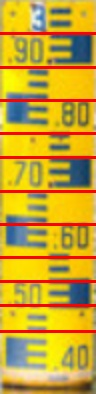
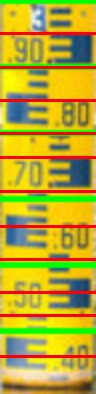
optimization 1st

diff --git a/utils.py b/utils.py
@@ -86,10 +86,14 @@ def sobel_edge_detector(img):
 
 def trialK(staff, staff_height, vrt, weight):
 	first_h = []
+	start = int(staff_height*((weight-1)*0.01))
+	stop = int(staff_height*(weight*0.01))
+	if start == stop:
+		stop += 1
 	for j in range(8):
 		if j==0:
 			prob = []; draws = []; height = []; vertical = []
-			for k in range(int(staff_height*(weight*0.01))):
+			for k in range(start,stop):
 				genE(int(staff.shape[1]/2), int(staff_height)-k)
 				temp = cv2.threshold(cv2.imread("template.jpg", 0), 128, 255, cv2.THRESH_OTSU)[1]
 				section = cv2.cvtColor(staff[vrt:vrt+int(staff_height), :int(staff.shape[1]/2)], cv2.COLOR_BGR2GRAY)
@@ -102,7 +106,7 @@ def trialK(staff, staff_height, vrt, weight):
 			else: pass
 		elif j==1:
 			prob = []; draws = []; height = []; vertical = []
-			for k in range(int(staff_height*(weight*0.01))):
+			for k in range(start,stop):
 				genE(int(staff.shape[1]/2), int(staff_height)-k)
 				temp = cv2.threshold(cv2.imread("template.jpg", 0), 128, 255, cv2.THRESH_OTSU)[1]
 				temp = cv2.bitwise_not(temp)
@@ -116,7 +120,7 @@ def trialK(staff, staff_height, vrt, weight):
 			else: pass
 		elif j==2:
 			prob = []; draws = []; height = []; vertical = []
-			for k in range(int(staff_height*(weight*0.01))):
+			for k in range(start,stop):
 				genEback(int(staff.shape[1]/2), int(staff_height)-k)
 				temp = cv2.threshold(cv2.imread("template.jpg", 0), 128, 255, cv2.THRESH_OTSU)[1]
 				section = cv2.cvtColor(staff[vrt:vrt+int(staff_height), :int(staff.shape[1]/2)], cv2.COLOR_BGR2GRAY)
@@ -129,7 +133,7 @@ def trialK(staff, staff_height, vrt, weight):
 			else: pass
 		elif j==3:
 			prob = []; draws = []; height = []; vertical = []
-			for k in range(int(staff_height*(weight*0.01))):
+			for k in range(start,stop):
 				genEback(int(staff.shape[1]/2), int(staff_height)-k)
 				temp = cv2.threshold(cv2.imread("template.jpg", 0), 128, 255, cv2.THRESH_OTSU)[1]
 				temp = cv2.bitwise_not(temp)
@@ -143,7 +147,7 @@ def trialK(staff, staff_height, vrt, weight):
 			else: pass
 		elif j==4:
 			prob = []; draws = []; height = []; vertical = []
-			for k in range(int(staff_height*(weight*0.01))):
+			for k in range(start,stop):
 				genE(int(staff.shape[1]/2), int(staff_height)+k)
 				temp = cv2.threshold(cv2.imread("template.jpg", 0), 128, 255, cv2.THRESH_OTSU)[1]
 				section = cv2.cvtColor(staff[vrt:vrt+2*int(staff_height), int(staff.shape[1]/2):], cv2.COLOR_BGR2GRAY)
@@ -156,7 +160,7 @@ def trialK(staff, staff_height, vrt, weight):
 			else: pass
 		elif j==5:
 			prob = []; draws = []; height = []; vertical = []
-			for k in range(int(staff_height*(weight*0.01))):
+			for k in range(start,stop):
 				genE(int(staff.shape[1]/2), int(staff_height)+k)
 				temp = cv2.threshold(cv2.imread("template.jpg", 0), 128, 255, cv2.THRESH_OTSU)[1]
 				temp = cv2.bitwise_not(temp)
@@ -170,7 +174,7 @@ def trialK(staff, staff_height, vrt, weight):
 			else: pass
 		elif j==6:
 			prob = []; draws = []; height = []; vertical = []
-			for k in range(int(staff_height*(weight*0.01))):
+			for k in range(start,stop):
 				genEback(int(staff.shape[1]/2), int(staff_height)+k)
 				temp = cv2.threshold(cv2.imread("template.jpg", 0), 128, 255, cv2.THRESH_OTSU)[1]
 				section = cv2.cvtColor(staff[vrt:vrt+2*int(staff_height), int(staff.shape[1]/2):], cv2.COLOR_BGR2GRAY)
@@ -183,7 +187,7 @@ def trialK(staff, staff_height, vrt, weight):
 			else: pass
 		elif j==7:
 			prob = []; draws = []; height = []; vertical = []
-			for k in range(int(staff_height*(weight*0.01))):
+			for k in range(start,stop):
 				genEback(int(staff.shape[1]/2), int(staff_height)+k)
 				temp = cv2.threshold(cv2.imread("template.jpg", 0), 128, 255, cv2.THRESH_OTSU)[1]
 				temp = cv2.bitwise_not(temp)

diff --git a/main.py b/main.py
@@ -147,13 +147,6 @@ cv2.imshow("lines",clos)
 cv2.waitKey(0)
 print(num_staff_frame, last_frame)
 
-test_picture = g
-test = get_combined_image_array(test_picture)
-plot_graph(test)
-water_level = draw_steepest_slope(test_picture,test)
-cv2.imshow("water level",water_level)
-cv2.waitKey(0)
-
 staff = cv2.resize(cropped[staff_guage_idx][0], (0,0), fx=2, fy=2)
 height_dataset = []
 for z in range(int(staff.shape[0]//staff_height)):
@@ -161,10 +154,13 @@ for z in range(int(staff.shape[0]//staff_height)):
         y = 0
         height = 0
     #cutsection = trialK(staff, staff_height, y, 20)
-    cutsection = []
+    cutsection = []; tempo = []
     for t in tqdm(range(1,50)):
         cut = trialK(staff, staff_height, y, t)
-        if cut!=False: cutsection.append(cut)
+        if cut!=False:
+            tempo.append(cut)
+            tempo_idx = np.argmax(np.array([t[0] for t in tempo])) 
+            cutsection.append(tempo[tempo_idx])
     heights = [c[3] for c in cutsection]
     mode_height = max(set(heights), key=heights.count)
     print(heights, "most height", mode_height)
